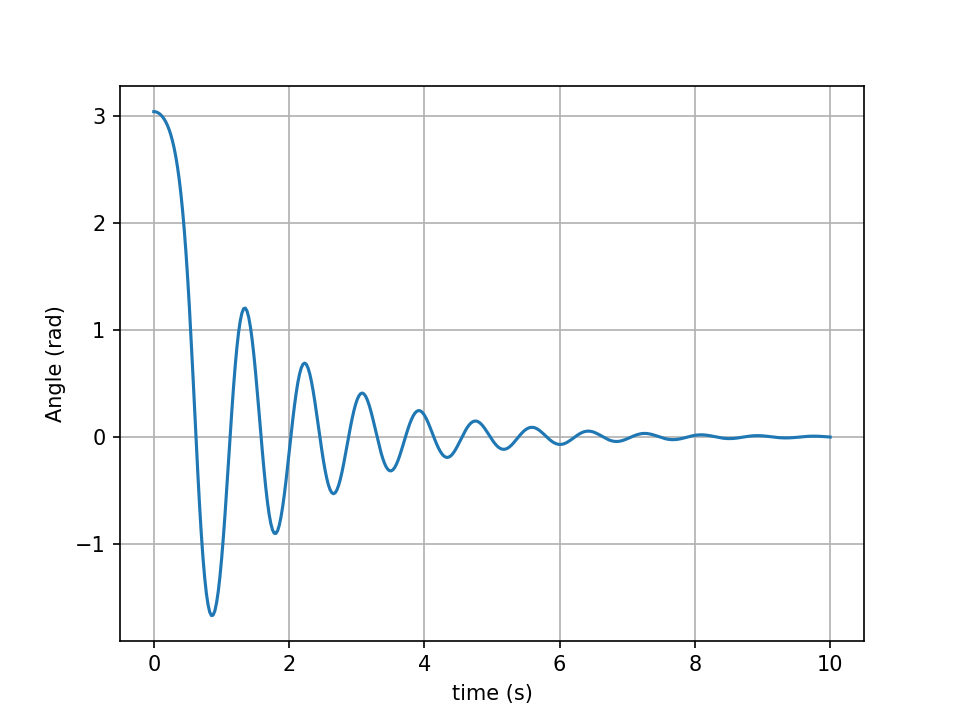
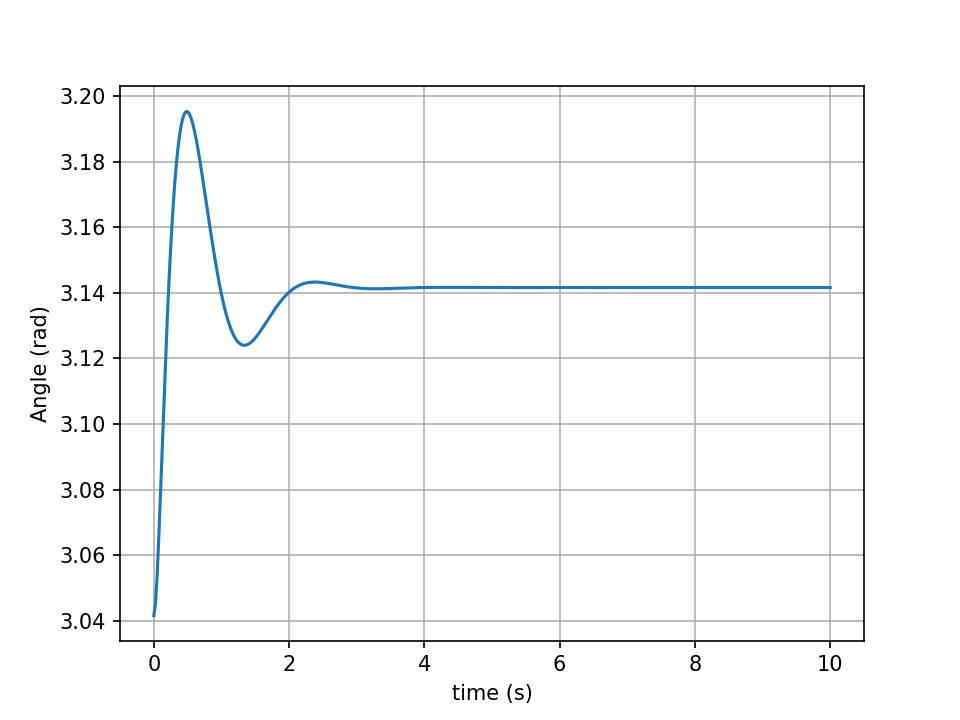
starting to separate pendulum modelling scripts

diff --git a/Modelling/rotary_pendulum/PendulumModelling.py b/Modelling/rotary_pendulum/PendulumModelling.py
@@ -1,12 +1,13 @@
 import sympy as sp
 import numpy as np
 from sympy import Matrix, Function, symbols, simplify
-from KinematicsFuncs import calc_R20
-from PendulumPlotting import rot_pendulum_animator
 from PendulumParameters import rc, m, Ip, g, damping
 from scipy.integrate import solve_ivp
 import os
 from matplotlib import pyplot as plt
+from KinematicsFuncs import calc_R20
+from PendulumPlotting import rot_pendulum_animator
+from DynamicsFuncs import finite_diff_jacobian, rot_pend_dynamics_num, f_wrapped
 
 file_directory = os.path.dirname(os.path.abspath(__file__))
 
@@ -85,97 +86,15 @@ M_f = sp.lambdify(x_syms, M.tolist(), modules="numpy")
 N_f = sp.lambdify(x_syms, N.tolist(), modules="numpy")
 
 # ---------------------------------------------------------------------
-# 2) Numerical dynamics (NumPy only)
+# 4) Linearization model
 # ---------------------------------------------------------------------
-def dynamics_acc_ctrl_terms(x):
-    """
-    Modified dynamics with acceleration as control input.
-    x = [θ1, θ2, θ1d, θ2d]
-    Returns: M_acc (2x2), N_acc (2,), B_acc (2,1)
-    """
-    A = np.array([[1.0, 0.0]])  # constraint matrix
-    M = np.array(M_f(x[0], x[1], x[2], x[3]), dtype=float)
-    N = np.array(N_f(x[0], x[1], x[2], x[3]), dtype=float).flatten()
-
-    D_mat = np.array([[0.0, 0.0],
-                      [0.0, damping]], dtype=float)
-    Damping_force = (D_mat @ np.asarray(x)[2:]).flatten()
-
-    M_inv = np.linalg.inv(M)
-    AMinvAT_inv = np.linalg.inv(A @ M_inv @ A.T)  # scalar (1x1)
-
-    N_bar = N + Damping_force
-    proj = A.T @ AMinvAT_inv @ A @ M_inv   # 2x2
-    N_acc = N_bar - proj @ N_bar           # 2,
-    B_acc = A.T @ AMinvAT_inv              # 2x1
-    M_acc = M
-
-    return M_acc, N_acc, B_acc
-
-def rot_pend_dynamics_num(x, u):
-    """
-    First-order ODE: xdot = [θ1d, θ2d, θ1dd, θ2dd]
-    """
-    M_a, N_a, B_a = dynamics_acc_ctrl_terms(x)
-    acc = np.linalg.inv(M_a) @ (B_a.flatten() * u - N_a)  # (2,)
-    return np.array([x[2], x[3], acc[0], acc[1]], dtype=float)
-
-def f_wrapped(xu):
-    x = xu[:4]
-    u = xu[4]
-    return rot_pend_dynamics_num(x, u)
-
-def xdot(t, x):
-    u = 0.0
-    return rot_pend_dynamics_num(x, u)
-
-# ---------------------------------------------------------------------
-# 3) Simulate with SciPy
-# ---------------------------------------------------------------------
-t_span = (0.0, 10.0)
-t_eval = np.linspace(t_span[0], t_span[1], 400)
-x0 = np.array([0.0, np.pi-0.1, 0.0, 0.0], dtype=float)
-
-sol = solve_ivp(xdot, t_span, x0, t_eval=t_eval, method="RK45", atol=1e-9, rtol=1e-7)
-
-# --- Plot results ---
-plt.figure()
-plt.plot(list(sol.t), list(sol.y[1]))
-plt.xlabel("time (s)")
-plt.ylabel("Angle (rad)")
-plt.grid(True)
-plt.savefig(str(file_directory)+"/response_plot.png", dpi=150)
-
-# Depending on your animator’s API:
-#   - If it accepts SciPy's OdeResult directly, keep as-is.
-#   - If it wants (t, X) arrays, try passing (t_eval, sol.y.T).
-rot_pendulum_animator(sol, name=os.path.join(file_directory, "rotary_pendulum_anim"))
-
-# ---------------------------------------------------------------------
-# 4) Linearization without JAX: finite-difference Jacobian
-# ---------------------------------------------------------------------
-def finite_diff_jacobian(f, x, eps=1e-6):
-    """
-    f: R^n -> R^m, returns vector
-    x: (n,)
-    returns J (m x n)
-    """
-    x = np.asarray(x, dtype=float)
-    f0 = np.asarray(f(x), dtype=float)
-    m = f0.size
-    n = x.size
-    J = np.zeros((m, n), dtype=float)
-    for j in range(n):
-        xp = x.copy()
-        h = eps * max(1.0, abs(x[j]))
-        xp[j] += h
-        fp = np.asarray(f(xp), dtype=float)
-        J[:, j] = (fp - f0) / h
-    return J
 
 # equilibrium and linearization
-x_equil = np.array([0.0, np.pi, 0.0, 0.0, 0.0], dtype=float)  # [θ1, θ2, θ1d, θ2d, u]
-J = finite_diff_jacobian(lambda z: f_wrapped(z), x_equil)     # shape (4,5)
+#Choose your equilibrium point here:
+x_equil = np.array([0.0, np.pi, 0.0, 0.0, 0.0], dtype=float)  # Upward vertical [θ1, θ2, θ1d, θ2d, u]
+#x_equil = np.array([0.0, 0.0, 0.0, 0.0, 0.0], dtype=float)  # Downward vertical  [θ1, θ2, θ1d, θ2d, u]
+
+J = finite_diff_jacobian(lambda z: f_wrapped(z, M_f, N_f), x_equil)     # shape (4,5)
 A_matrix = J[:, :4]
 B_matrix = J[:, 4:5]  # keep as column
 

diff --git a/Modelling/rotary_pendulum/PendulumSimulation.py b/Modelling/rotary_pendulum/PendulumSimulation.py
@@ -1,0 +1,73 @@
+import sympy as sp
+import numpy as np
+from scipy.integrate import solve_ivp
+import os
+from matplotlib import pyplot as plt
+from PendulumPlotting import rot_pendulum_animator
+from DynamicsFuncs import finite_diff_jacobian, rot_pend_dynamics_num, f_wrapped
+
+#Import the dynamic model functions
+from PendulumModelling import M_f, N_f
+
+#Import the Control gains
+from ControlScript import K 
+
+file_directory = os.path.dirname(os.path.abspath(__file__))
+
+# Control input function
+def u(t,x):
+    equil = np.array([0.0, np.pi, 0.0, 0.0], dtype=float)  # [θ1, θ2, θ1d, θ2d]
+    acceleration = K @ (equil - x)  # u = -K(x - x_equil)
+    return np.array([acceleration]).flatten()
+
+# Dynamics function for ODE solver
+def xdot(t, x):
+    control = u(t,x)
+    return rot_pend_dynamics_num(x, control, M_f, N_f)
+
+# ---------------------------------------------------------------------
+# 3) Simulate with SciPy
+# ---------------------------------------------------------------------
+t_span = (0.0, 10.0)
+t_eval = np.linspace(t_span[0], t_span[1], 400)
+x0 = np.array([0.0, np.pi-0.1, 0.0, 0.0], dtype=float)
+
+sol = solve_ivp(xdot, t_span, x0, t_eval=t_eval, method="RK45", atol=1e-9, rtol=1e-7)
+
+#F = np.array([u(ti,[xi, vi])[0] for xi, vi, ti in zip(x, xdot, t)])
+
+
+# --- Plot results ---
+plt.figure()
+plt.plot(list(sol.t), list(sol.y[1]))
+plt.xlabel("time (s)")
+plt.ylabel("Angle (rad)")
+plt.grid(True)
+plt.savefig(str(file_directory)+"/response_plot.png", dpi=150)
+
+plt.figure()
+plt.plot(list(sol.t), list(sol.y[1]))
+plt.xlabel("time (s)")
+plt.ylabel("Angle (rad)")
+plt.grid(True)
+plt.savefig(str(file_directory)+"/response_plot.png", dpi=150)
+
+# --- Animate results ---
+rot_pendulum_animator(sol, name=os.path.join(file_directory, "rotary_pendulum_anim"))
+# ---------------------------------------------------------------------
+# 4) Linearization model
+# ---------------------------------------------------------------------
+
+# equilibrium and linearization
+x_equil = np.array([0.0, np.pi, 0.0, 0.0, 0.0], dtype=float)  # [θ1, θ2, θ1d, θ2d, u]
+J = finite_diff_jacobian(lambda z: f_wrapped(z, M_f, N_f), x_equil)     # shape (4,5)
+A_matrix = J[:, :4]
+B_matrix = J[:, 4:5]  # keep as column
+
+print("Equilibrium coordinates:")
+print(x_equil.tolist())
+print("\nA matrix:")
+print(A_matrix)
+print("\nB matrix:")
+print(B_matrix)
+# ------------------------------------------------------------------------------

diff --git a/Modelling/rotary_pendulum/DynamicsFuncs.py b/Modelling/rotary_pendulum/DynamicsFuncs.py
@@ -1,0 +1,64 @@
+import numpy as np
+from PendulumParameters import rc, m, Ip, g, damping
+
+
+# Rotation matrix function: assuming yaw-pitch rotation (Z-Y axes)
+# ---------------------------------------------------------------------
+# 2) Numerical dynamics (NumPy only)
+# ---------------------------------------------------------------------
+def dynamics_acc_ctrl_terms(x,M_f,N_f):
+    """
+    Modified dynamics with acceleration as control input.
+    x = [θ1, θ2, θ1d, θ2d]
+    Returns: M_acc (2x2), N_acc (2,), B_acc (2,1)
+    """
+    A = np.array([[1.0, 0.0]])  # constraint matrix
+    M = np.array(M_f(x[0], x[1], x[2], x[3]), dtype=float)
+    N = np.array(N_f(x[0], x[1], x[2], x[3]), dtype=float).flatten()
+
+    D_mat = np.array([[0.0, 0.0],
+                      [0.0, damping]], dtype=float)
+    Damping_force = (D_mat @ np.asarray(x)[2:]).flatten()
+
+    M_inv = np.linalg.inv(M)
+    AMinvAT_inv = np.linalg.inv(A @ M_inv @ A.T)  # scalar (1x1)
+
+    N_bar = N + Damping_force
+    proj = A.T @ AMinvAT_inv @ A @ M_inv   # 2x2
+    N_acc = N_bar - proj @ N_bar           # 2,
+    B_acc = A.T @ AMinvAT_inv              # 2x1
+    M_acc = M
+
+    return M_acc, N_acc, B_acc
+
+def rot_pend_dynamics_num(x, u, M_f, N_f):
+    """
+    First-order ODE: xdot = [θ1d, θ2d, θ1dd, θ2dd]
+    """
+    M_a, N_a, B_a = dynamics_acc_ctrl_terms(x, M_f, N_f)
+    acc = np.linalg.inv(M_a) @ (B_a.flatten() * u - N_a)  # (2,)
+    return np.array([x[2], x[3], acc[0], acc[1]], dtype=float)
+
+def f_wrapped(xu, M_f, N_f):
+    x = xu[:4]
+    u = xu[4]
+    return rot_pend_dynamics_num(x, u, M_f, N_f)
+
+def finite_diff_jacobian(f, x, eps=1e-6):
+    """
+    f: R^n -> R^m, returns vector
+    x: (n,)
+    returns J (m x n)
+    """
+    x = np.asarray(x, dtype=float)
+    f0 = np.asarray(f(x), dtype=float)
+    m = f0.size
+    n = x.size
+    J = np.zeros((m, n), dtype=float)
+    for j in range(n):
+        xp = x.copy()
+        h = eps * max(1.0, abs(x[j]))
+        xp[j] += h
+        fp = np.asarray(f(xp), dtype=float)
+        J[:, j] = (fp - f0) / h
+    return J

diff --git a/Modelling/rotary_pendulum/PendulumPlotting.py b/Modelling/rotary_pendulum/PendulumPlotting.py
@@ -55,3 +55,32 @@ def rot_pendulum_animator(x_sol, name="rotary_pendulum_anim"):
     anim = FuncAnimation(fig, update, frames=len(tvec_anim), interval=1000/anim_fps)
     anim.save(f"{name}.gif", writer='pillow', fps=anim_fps)
     plt.close(fig)
+
+    
+def plot_response(sol, file_directory, filename="response_plot.png"): 
+
+    t= list(sol.t)
+
+    fig, axs = plt.subplots(2, figsize=(8, 6), sharex=True, constrained_layout=True)
+
+    # First subplot: Cart response
+    axs[0].plot(t, list(sol.y[0]) , label="Theta 1")
+    axs[0].plot(t, list(sol.y[1]), label="Theta 2")
+    axs[0].set_ylabel("Response (radians)")
+    axs[0].set_title("Pendulum Response")
+    axs[0].grid(True)
+    axs[0].legend(loc="best")
+
+    # Second subplot: Control input
+    axs[1].plot(t, F, label="Force u (N)", color="red")
+    axs[1].set_xlabel("Time (s)")
+    axs[1].set_ylabel("Force (N)")
+    axs[1].set_title("Control Input")
+    axs[1].grid(True)
+    axs[1].legend(loc="best")
+
+    # Save & show
+    save_path = str(file_directory) + "/" + filename
+    plt.savefig(save_path, dpi=150)
+    #plt.show()
+    print(f"Plot saved to {save_path}")

diff --git a/Modelling/rotary_pendulum/ControlScript.py b/Modelling/rotary_pendulum/ControlScript.py
@@ -20,7 +20,6 @@ Ts = 0.01
 
 # Convert to discrete time
 sys_d = control.c2d(sys_c, Ts, method='zoh')  # Zero-order hold
-#sys_d = control.c2d(sys_c, Ts, method='tustin')  # Zero-order hold
 
 # Extract discrete A, B, C, D matrices
 Ad, Bd, Cd, Dd = control.ssdata(sys_d)
@@ -30,7 +29,6 @@ desired_poles =[-5.69167035, -8.2767094, -2.843+1.66j, -2.843-1.66j]
 
 # Pole placement
 place_obj_c = control.place(A, B, desired_poles)
-
 print(place_obj_c)
 
 # Pole placement
@@ -42,7 +40,6 @@ Q=np.diag([0.1,0.01,0.01,0.01])
 R=0.001
 
 K, S, E = control.dlqr(Ad, Bd, Q, R)
-print(K)
 
 # Closed-loop system matrix
 A_cl = A - B @ K
